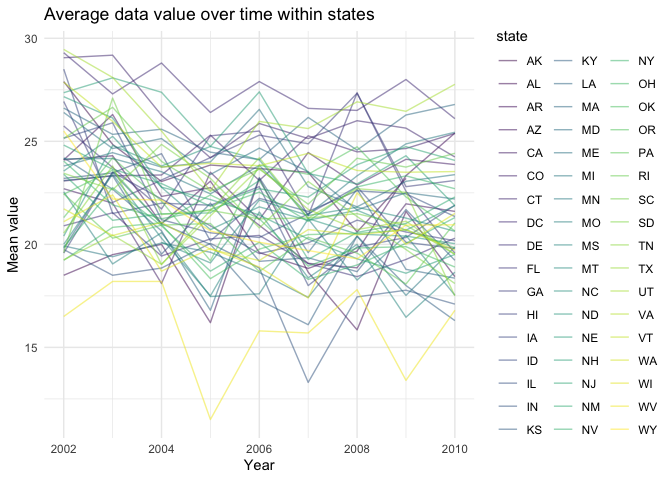
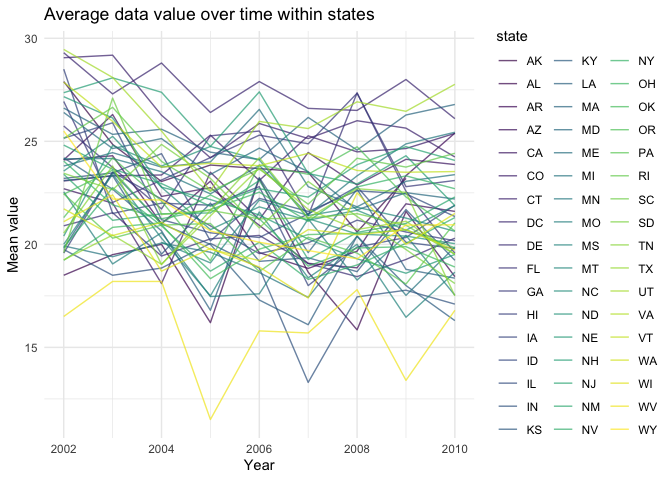
modifications

diff --git a/p8105_hw3_sp4170.md b/p8105_hw3_sp4170.md
@@ -126,7 +126,7 @@ instacart |>
 
 # Problem 2
 
-### read in the data
+## read in the data
 
 ``` r
 data("brfss_smart2010")
@@ -156,12 +156,14 @@ brfss_smart2010 |>
   rename(state = locationabbr, state_location = locationdesc)
 ```
 
-i named the cleaned dataset as ‘brfss_df’. the cleaned dataset has 10625
-rows and 23 cols.
+- i named the cleaned dataset as ’brfss_df’and also rename variable
+  locationabbr as state and variable locationdesc as state_location to
+  improve reading experience. the cleaned dataset has 10625 rows and 23
+  cols.
 
 ## answer questions
 
-### Question 1
+### Prob 2 - Question 1
 
 In 2002, which states were observed at 7 or more locations? What about
 in 2010?
@@ -190,7 +192,7 @@ brfss_df |>
 - in 2010, states **CA, CO, FL, MA, MD, NC, NE, NJ, NY, OH, PA, SC, TX,
   WA** were observed at 7 or more locations.
 
-### Question 2
+### Prob 2 - Question 2
 
 requirement:
 
@@ -214,7 +216,7 @@ brfss_df |>
 
 brfss_excellent_df |> 
   ggplot(aes(x = year, y = mean_data_value)) +
-  geom_line(aes(color = state), alpha = 0.5) +
+  geom_line(aes(color = state), alpha = 0.7) +
   labs(
     title = "Average data value over time within states",
     x = 'Year',
@@ -228,15 +230,17 @@ brfss_excellent_df |>
 - here, i first create a dataset `brfss_excellent_df` following the
   requirement. This new dataset only have 3 variables, which are year,
   state, and mean_data_value and is limited to Excellent responses. Then
-  i do a spaghetti plot using geom_line() to show average data value
-  over time within states.
-- from the plot, we can see that generally, the mean_data_values
-  slightly decreased for states across years, even though the
-  mean_data_value themselves fluctuate for each state. The mean values
-  for states mainly lie between 15 and 30 across years, only 2 states
-  have mean value lower than 15 across years.
+  i use `distinct()` to make sure i get rid of replicated rows in order
+  to get a more decent dataset.
+- Then i do a spaghetti plot using `geom_line()` to show average data
+  value over time within states.
+  - from the plot, we can see that generally, the mean_data_values
+    slightly decreased for states across years, even though the
+    mean_data_value themselves fluctuate for each state. The mean values
+    for states mainly lie between 15 and 30 across years, only 2 states
+    have mean value lower than 15 across years.
 
-### Question 3
+### Prob 2 - Question 3
 
 Make a two-panel plot showing, for the years 2006, and 2010,
 distribution of data_value for responses (“Poor” to “Excellent”) among
@@ -259,27 +263,30 @@ brfss_df |>
 
 ![](p8105_hw3_sp4170_files/figure-gfm/unnamed-chunk-12-1.png)<!-- -->
 
-- here, i first filter the dataset and then do a density plot and use
-  `facet_grid()` to make it as a 2-panel plot.
-- from the plot, we can find that the response variable (we switch it
-  into factor variable, so it has an order ranking from poor to
-  excellent, and here we treat good, vary good, and excellent as a
-  cluster of response as good experience) increases when the data_value
-  increase, That is, for observations with a higher data_value, the
-  response will be higher correspondingly. And the density for response
-  from lowest to highest is Good, Very good, excellent, Fair, and Poor
-  in 2006 and Good, Very good, Fair, Excellent, Poor for 2010. The
-  density of Poor in 2006 is less than that of 2010.
+- here, i first filter the dataset and then do a density plot and a box
+  plot and use `facet_grid()` to make it as a 2-panel plot.
+  - from the plot, we can find that the response variable (we switch it
+    into factor variable, so it has an order ranking from poor to
+    excellent. And here, for easy description, we treat good, vary good,
+    and excellent as a cluster of response for good experience)
+    increases when the data_value increase, That is, for observations
+    with a higher data_value, the response will be higher
+    correspondingly. And the density for response from lowest to highest
+    is Good, Very good, excellent, Fair, and Poor in 2006 and Good, Very
+    good, Fair, Excellent, Poor for 2010. The density of Poor in 2006 is
+    less than that of 2010.
 
 # Problem 3
 
 ## data loading, tidying, and merging and organizing
 
-Load, tidy, merge, and otherwise organize the data sets. \* include all
-originally observed variables \* exclude participants less than 21 years
-of age, and those with missing demographic data \* and encode data with
-reasonable variable classes (i.e. not numeric, and using factors with
-the ordering of tables and plots in mind).
+Load, tidy, merge, and otherwise organize the data sets.
+
+- include all originally observed variables
+- exclude participants less than 21 years of age, and those with missing
+  demographic data
+- and encode data with reasonable variable classes (i.e. not numeric,
+  and using factors with the ordering of tables and plots in mind).
 
 ``` r
 accel_df = 
@@ -332,7 +339,7 @@ final_df =
 
 ## Questions
 
-### Question 1
+### Prob 3 - Question 1
 
 - Produce a reader-friendly table for the number of men and women in
   each education category
@@ -371,7 +378,7 @@ final_df |>
   select(seqn, sex, education, age) |> 
   distinct(seqn, .keep_all = TRUE) |> 
   ggplot(aes(x = age, fill = sex))+
-  geom_histogram(binwidth = 5, alpha = 0.3, position = 'dodge') +
+  geom_histogram(binwidth = 5, alpha = 0.5, position = 'dodge') +
   facet_grid(. ~ education) +
   labs(
     title = 'Age distributions by sex and education category',
@@ -386,8 +393,9 @@ final_df |>
   - I create a new dataframe called ‘final_easy_read_df’. here, i group
     the dataset by sex and education category using `group_by()` and
     then use `summarise()` to count how many observations in each single
-    group (name this variable as n_obs). Then i use `pivot_wider()` to
-    produce a reader-friendly table.
+    group (name this variable as n_obs). I also use `distinct()` to get
+    rid of replicated rows. Then i use `pivot_wider()` and
+    `knitr::kable()` to produce and present a reader-friendly table.
   - *comments*:
     - In both sex groups, most participants are educated more than high
       school (115 in total), while more females (59) get education more
@@ -405,8 +413,9 @@ final_df |>
       are less than of males (female:male=23:35)
 - 2nd part code
   - i create a histogram titled ‘Age distributions by sex and education
-    category’ and treat age variable in x-axis and grouped by sex. Then
-    i great 3 panels based on the category of education.
+    category’ and treat age variable in x-axis and grouped by sex. I
+    also use `distinct()` to get rid of replicated rows. Then i great 3
+    panels based on the category of education.
   - *comments*:
     - among those with less than high school education, most females
       aged around 70 and most males aged around 45 and 70.
@@ -423,7 +432,7 @@ final_df |>
       school education is larger than other 2 education groups
       separately.
 
-### Question 2
+### Prob 3 - Question 2
 
 - Using your tidied dataset, aggregate across minutes to create a total
   activity variable for each participant.
@@ -452,7 +461,9 @@ final_df |>
 
 ![](p8105_hw3_sp4170_files/figure-gfm/unnamed-chunk-15-1.png)<!-- -->
 
-I include a smooth in my plot.
+I calculate the sum activity of each observation in a day and create is
+as a new col named ‘sum_activity’. I use `distinct()` to get rid of
+replicated rows. I include a smooth in my plot.
 
 - *comments*:
   - for each education group, the sum_activity would generally decrease
@@ -471,7 +482,7 @@ I include a smooth in my plot.
   - the range of total activity over a day across age for less than high
     school education group is larger than the other 2 education groups.
 
-### Question 3
+### Prob 3 - Question 3
 
 Accelerometer data allows the inspection activity over the course of the
 day. Make a three-panel plot that shows the 24-hour activity time
@@ -505,7 +516,15 @@ final_df |>
 
 ![](p8105_hw3_sp4170_files/figure-gfm/unnamed-chunk-16-1.png)<!-- -->
 
+- I calculate the mean of activity mims data for each minute across sex
+  and education and create a new col named as ‘mean_activity_sex_edu’. I
+  also switch variable time to numeric type to draw the plot. Then, when
+  doing the scatterplot and smooth line, I use variable time as x-axis
+  and mean_activity_sex_edu as y-axis and color based on sex groups.
+  Then i create 3 panels based on education categories.
+
 - *comment*:
+
   - for both sex, the mean activity will decrease from the start of a
     day until time goes to around 250 mins of a day. Then the mean
     activity will increase until time goes to around 750 mins of a day.
